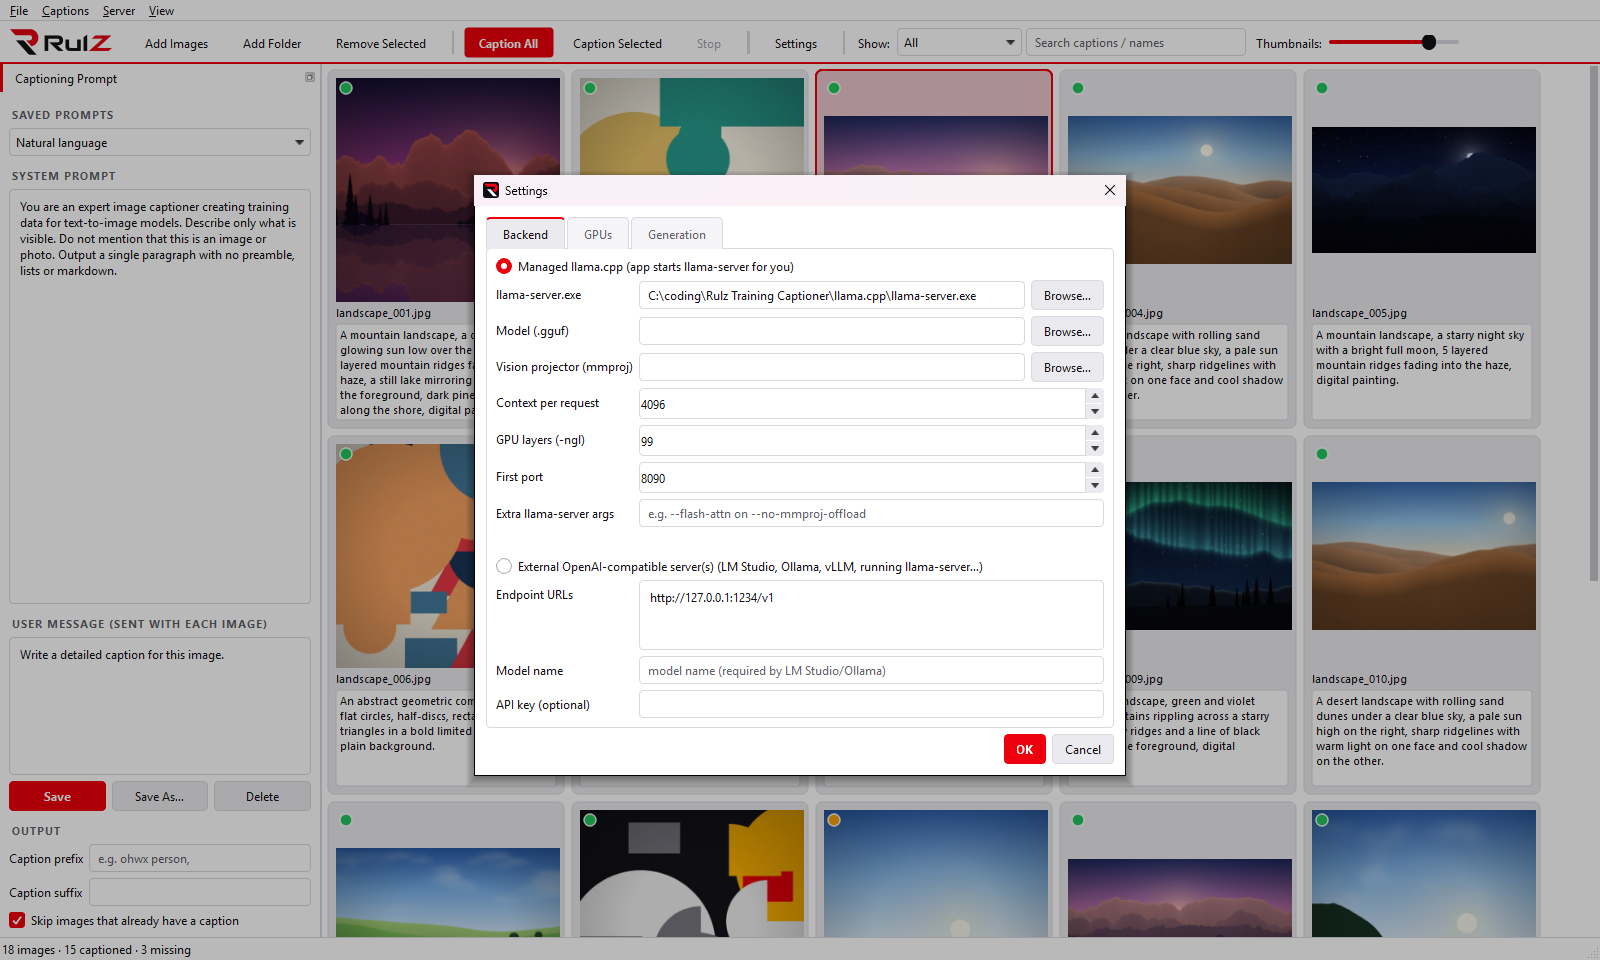
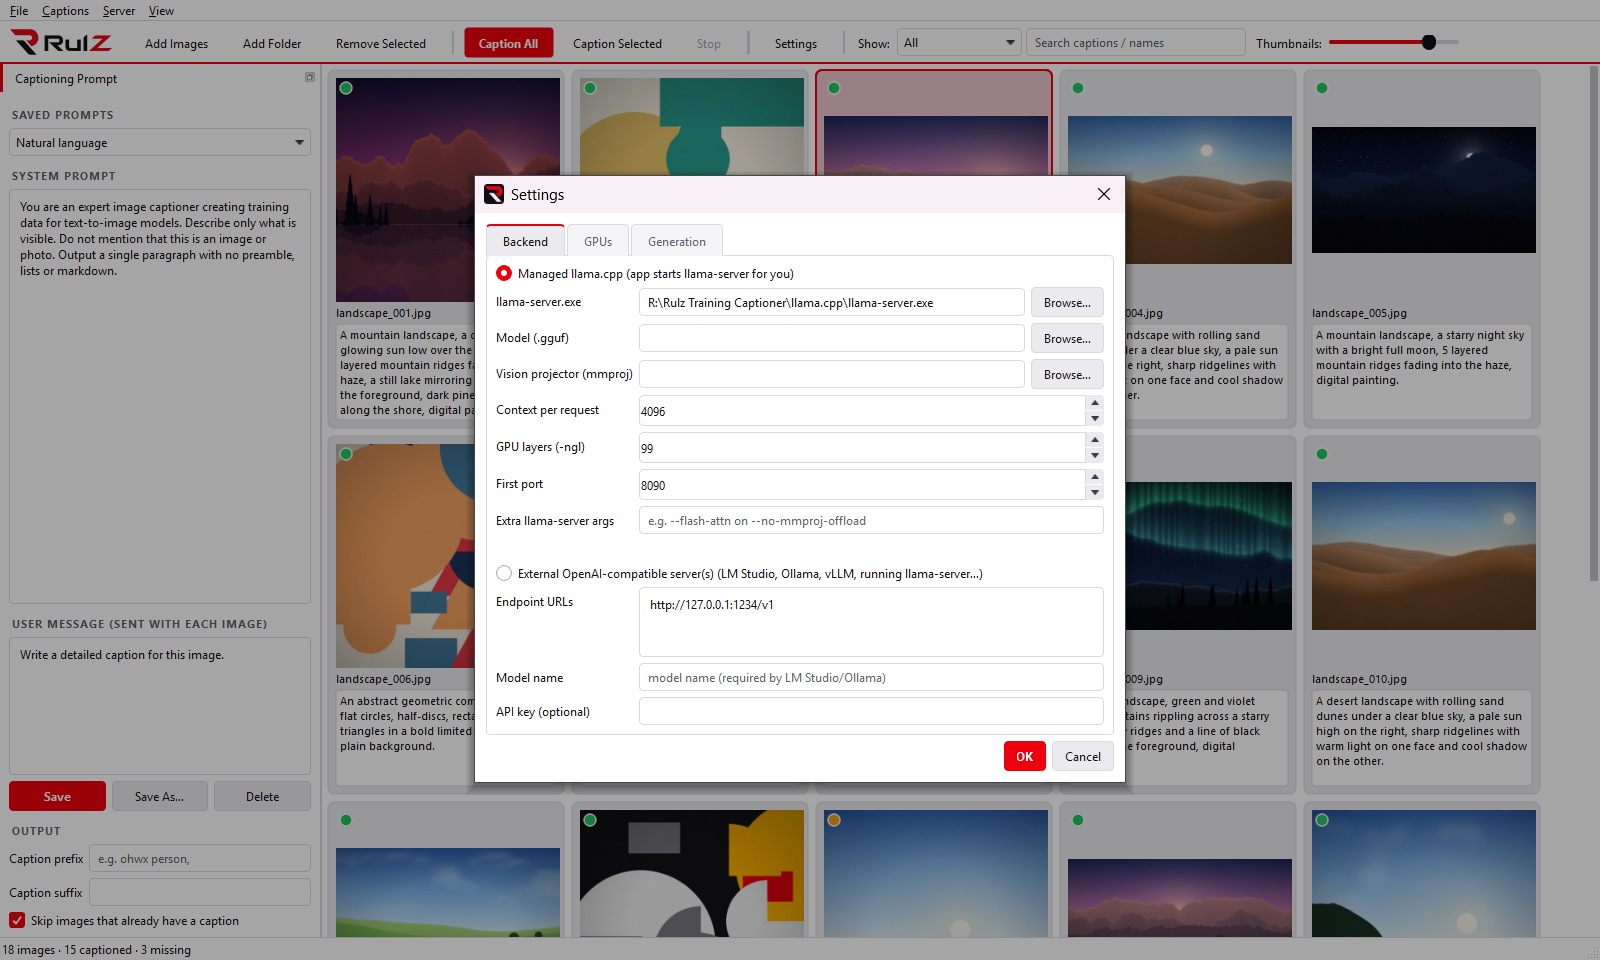
Launcher 1.13.2: README audit and new screenshots
Every app README checked against its source and corrected, new screenshots of
the launcher and ten apps (demo content only), and the capture tools updated.

- READMEs: wrong and missing details fixed in all twelve apps (RulzTrainer's
  model count, FIBO-in-ComfyUI, Android pairing, Image Tournament saves, Image
  Grid tile sizes and more); the root README's app table matches the wiki.
- Screenshots: launcher home (dark/light), app page and install dialog (now an
  R:\ path, no user folder); RulzTrainer (wizard model step, dataset gallery,
  fake fleet), LLM Suite (chat, Reverse Engineering, MCP Tools, Developer,
  Settings), Coding Agent (scripted against its mock server, plus phone
  access), HF Manager (vast.ai page and transfers), Clip Extractor, Training
  Captioner, Image Preparer, Image Organizer and Image Tournament.
- Catalog: HF Manager, LLM Suite and Coding Agent cards name their newer
  features; offline README copies re-synced.
- tools/screenshots: README rewritten for how this round was made;
  capture_coding_agent.ts, rulz_trainer_fake_fleet.py, make_demo_llm_chats.py
  and launcher/trainer plans added; harnesses run the apps from apps/.

Image Crawler (needs its model on a GPU) and Image Grid keep their images.

diff --git a/README.md b/README.md
@@ -19,7 +19,9 @@ Windows desktop app for captioning image datasets with a local vision LLM.
 
 ## Run
 
-Double-click `run.bat` (creates a venv and installs PySide6 + requests on first run).
+Double-click `run.bat` (creates a venv and installs PySide6 + requests on first run). It needs Python 3.10+ on
+PATH. If that first run was interrupted, delete `.venv` and run it again: the packages are only installed when
+`.venv` doesn't exist yet.
 
 ## Set up the model (managed mode)
 
@@ -61,8 +63,11 @@ Double-click `run.bat` (creates a venv and installs PySide6 + requests on first 
   kept and the log says so. A caption file that can't be read is shown in red, skipped by *Caption All* when
   "skip existing" is on, and never replaced by a caption you haven't seen.
 - Images you remove (or clear) during a run are skipped instead of captioned for nothing.
-- If `settings.json` or `prompts.json` can't be read, it is renamed to `settings.bad-<time>.json` /
-  `prompts.bad-<time>.json` (so a hand edit gone wrong can be repaired) and the defaults are used.
+- If `settings.json` or `prompts.json` is broken (not valid JSON, a value of the wrong type, an entry that
+  isn't a prompt), it is moved or copied aside as `settings.bad-<time>.json` / `prompts.bad-<time>.json` (so a
+  hand edit gone wrong can be repaired) and the defaults, or the parts that were fine, are used. A file that
+  can't be opened at all (another program has it locked) is left alone: the app doesn't save over it while it
+  runs, and says so when you press OK in Settings or save a prompt.
 - The log (View ▸ Log) shows llama-server output, useful if a model fails to load.
 
 ## Settings folder
